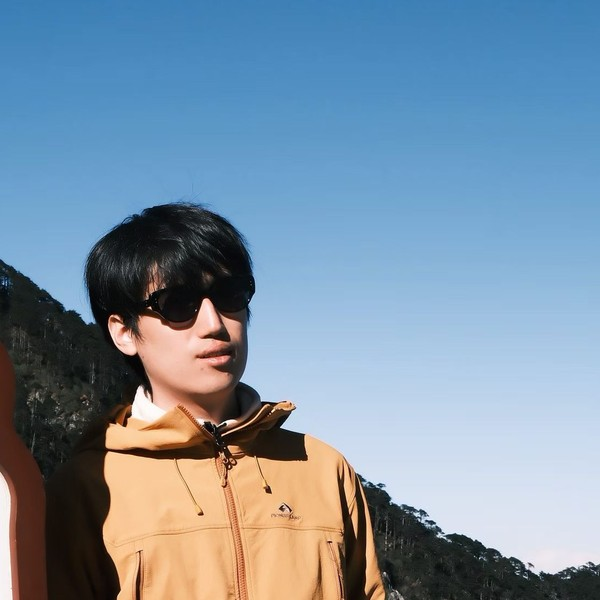
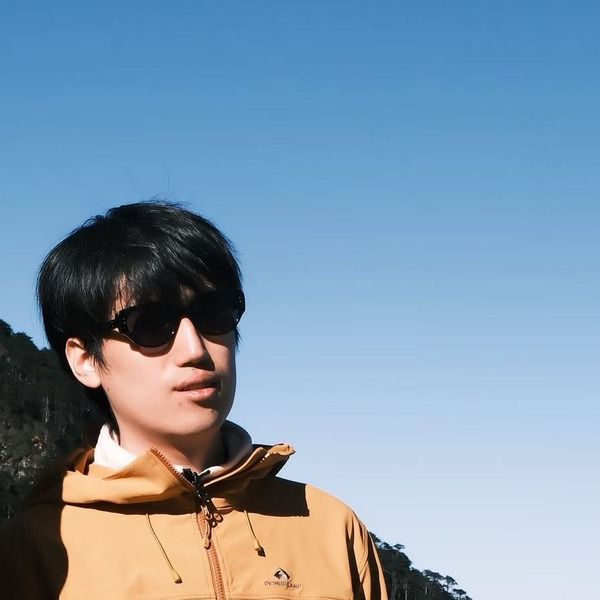
Fix slideshow JS, remove cartoon, tighter casual photo crop

Changed region(s): [[0.0, 0.33, 1.0, 1.0]]

diff --git a/_includes/author-profile.html b/_includes/author-profile.html
@@ -5,40 +5,40 @@
 <div itemscope itemtype="http://schema.org/Person" class="profile_box">
 
   <div class="author__avatar">
-    <div id="avatar-slideshow" style="position:relative;cursor:pointer;" title="Click to switch photo">
-      <img id="avatar-img" src="{{ site.baseurl }}/images/photo_casual.jpg" alt="{{ author.name }}" style="width:100%;border-radius:8px;display:block;">
-      <div id="avatar-dots" style="position:absolute;bottom:6px;left:50%;transform:translateX(-50%);display:flex;gap:5px;">
-        <span class="avatar-dot" data-idx="0" style="width:7px;height:7px;border-radius:50%;background:#fff;opacity:1;cursor:pointer;box-shadow:0 1px 3px rgba(0,0,0,0.4);"></span>
-        <span class="avatar-dot" data-idx="1" style="width:7px;height:7px;border-radius:50%;background:#fff;opacity:0.45;cursor:pointer;box-shadow:0 1px 3px rgba(0,0,0,0.4);"></span>
-        <span class="avatar-dot" data-idx="2" style="width:7px;height:7px;border-radius:50%;background:#fff;opacity:0.45;cursor:pointer;box-shadow:0 1px 3px rgba(0,0,0,0.4);"></span>
-        <span class="avatar-dot" data-idx="3" style="width:7px;height:7px;border-radius:50%;background:#fff;opacity:0.45;cursor:pointer;box-shadow:0 1px 3px rgba(0,0,0,0.4);"></span>
+    <div id="avatar-slideshow" style="position:relative;cursor:pointer;user-select:none;" title="Click to switch photo">
+      <img id="avatar-img" src="{{ site.baseurl }}/images/photo_casual.jpg" alt="{{ author.name }}" style="width:100%;border-radius:8px;display:block;transition:opacity 0.2s ease;">
+      <div style="position:absolute;bottom:7px;left:50%;transform:translateX(-50%);display:flex;gap:6px;pointer-events:none;">
+        <span class="av-dot" data-i="0" style="width:8px;height:8px;border-radius:50%;background:#fff;opacity:1;pointer-events:auto;cursor:pointer;box-shadow:0 1px 4px rgba(0,0,0,0.5);display:inline-block;"></span>
+        <span class="av-dot" data-i="1" style="width:8px;height:8px;border-radius:50%;background:#fff;opacity:0.4;pointer-events:auto;cursor:pointer;box-shadow:0 1px 4px rgba(0,0,0,0.5);display:inline-block;"></span>
+        <span class="av-dot" data-i="2" style="width:8px;height:8px;border-radius:50%;background:#fff;opacity:0.4;pointer-events:auto;cursor:pointer;box-shadow:0 1px 4px rgba(0,0,0,0.5);display:inline-block;"></span>
       </div>
     </div>
-    <script>
-    (function(){
-      var photos = [
-        '{{ site.baseurl }}/images/photo_casual.jpg',
-        '{{ site.baseurl }}/images/avatar.jpg',
-        '{{ site.baseurl }}/images/HAHAHA.jpg',
-        '{{ site.baseurl }}/images/katong.jpg'
-      ];
-      var current = 0;
-      var img = document.getElementById('avatar-img');
-      var dots = document.querySelectorAll('.avatar-dot');
-      function switchTo(idx) {
-        current = idx;
-        img.style.opacity = '0';
-        setTimeout(function(){ img.src = photos[current]; img.style.opacity = '1'; }, 150);
-        dots.forEach(function(d, i){ d.style.opacity = i === current ? '1' : '0.45'; });
-      }
-      document.getElementById('avatar-slideshow').addEventListener('click', function(e){
-        if (!e.target.classList.contains('avatar-dot')) switchTo((current + 1) % photos.length);
-      });
-      dots.forEach(function(d){ d.addEventListener('click', function(e){ e.stopPropagation(); switchTo(parseInt(d.dataset.idx)); }); });
-      img.style.transition = 'opacity 0.15s ease';
-    })();
-    </script>
   </div>
+  <script>
+  (function(){
+    var base = '{{ site.baseurl }}';
+    var photos = [base+'/images/photo_casual.jpg', base+'/images/avatar.jpg', base+'/images/HAHAHA.jpg'];
+    var cur = 0;
+    function init(){
+      var wrap = document.getElementById('avatar-slideshow');
+      var img  = document.getElementById('avatar-img');
+      var dots = document.querySelectorAll('.av-dot');
+      if(!wrap || !img || !dots.length) return;
+      function go(idx){
+        cur = (idx + photos.length) % photos.length;
+        img.style.opacity = '0';
+        setTimeout(function(){ img.src = photos[cur]; img.style.opacity = '1'; }, 200);
+        dots.forEach(function(d,i){ d.style.opacity = i===cur ? '1' : '0.4'; });
+      }
+      wrap.addEventListener('click', function(e){
+        if(e.target.classList.contains('av-dot')) go(parseInt(e.target.getAttribute('data-i')));
+        else go(cur+1);
+      });
+    }
+    if(document.readyState==='loading') document.addEventListener('DOMContentLoaded', init);
+    else init();
+  })();
+  </script>
 
   <div class="author__content">
     <h3 class="author__name">{{ author.name }}</h3>
